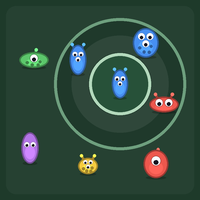
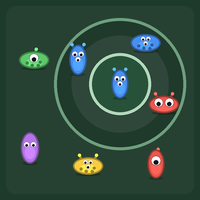
wip aliens

diff --git a/aliens/docs/make_thumbnail.py b/aliens/docs/make_thumbnail.py
@@ -25,15 +25,12 @@ ell(CX, CY, R_IN, R_IN, outline=(217, 255, 224, 200), width=3*SS)        # INNER
 
 COLORS = [(71,143,242), (237,87,77), (92,199,107), (247,204,64), (179,117,230)]
 
-def alien(cx, cy, r, cid, eyes, tall, wide, ants, spots):
+def alien(cx, cy, r, cid, eyes, wide, ants, spots):
     col = COLORS[cid]
     dark = tuple(int(c*0.66) for c in col)
     lite = tuple(min(255, int(c*1.35)) for c in col)
-    # body_extents() from alien.gd — TALL is always taller than wide
-    if tall:
-        rx, ry = r*(0.86 if wide else 0.56), r*(0.98 if wide else 1.00)
-    else:
-        rx, ry = r*(0.98 if wide else 0.66), r*(0.52 if wide else 0.54)
+    # body_extents() from alien.gd — ONE shape dimension, read as an aspect ratio
+    rx, ry = (r*1.00, r*0.58) if wide else (r*0.58, r*1.00)
     ell(cx, cy + ry*0.98, rx*0.82, r*0.11, fill=(0,0,0,56))              # ground shadow
     if ants:                                                              # antennae
         xs = [0.0] if ants == 1 else [-rx*0.42, rx*0.42]
@@ -60,17 +57,17 @@ def alien(cx, cy, r, cid, eyes, tall, wide, ants, spots):
 
 # parked on the lane (matching), one promoted inside, and a few roaming below
 LANE = (R_OUT + R_IN) / 2
-for ang, cid, eyes, tall, wide, ants, spots in [
-        (-150, 0, 3, True,  False, 2, False),
-        (-58,  0, 3, True,  True,  0, True),
-        (25,   1, 2, False, True,  2, False)]:
+for ang, cid, eyes, wide, ants, spots in [
+        (-150, 0, 3, False, 2, False),
+        (-58,  0, 3, True,  0, True),
+        (25,   1, 2, True,  2, False)]:
     a = math.radians(ang)
-    alien(CX + math.cos(a)*LANE, CY + math.sin(a)*LANE, W*0.075, cid, eyes, tall, wide, ants, spots)
-alien(CX, CY, W*0.072, 0, 3, True, False, 2, False)                       # promoted, inner ring
-alien(W*0.17, W*0.30, W*0.075, 2, 1, False, True, 1, True)
-alien(W*0.15, W*0.74, W*0.078, 4, 2, True, False, 0, False)
-alien(W*0.44, W*0.83, W*0.075, 3, 3, False, False, 2, True)
-alien(W*0.78, W*0.82, W*0.072, 1, 1, True, True, 1, False)
+    alien(CX + math.cos(a)*LANE, CY + math.sin(a)*LANE, W*0.075, cid, eyes, wide, ants, spots)
+alien(CX, CY, W*0.072, 0, 3, False, 2, False)                             # promoted, inner ring
+alien(W*0.17, W*0.30, W*0.075, 2, 1, True,  1, True)
+alien(W*0.15, W*0.74, W*0.078, 4, 2, False, 0, False)
+alien(W*0.44, W*0.83, W*0.075, 3, 3, True,  2, True)
+alien(W*0.78, W*0.82, W*0.072, 1, 1, False, 1, False)
 
 img.resize((S, S), Image.LANCZOS).save("aliens/art/game_screen_200.png")
 print("wrote aliens/art/game_screen_200.png")

diff --git a/aliens/docs/design.md b/aliens/docs/design.md
@@ -43,14 +43,13 @@ Aliens are **drawn**, not images — no per-game art beyond the chooser thumbnai
 
 ## Trait model
 
-Six **independent** dimensions, heaviest visual weight first. Independence is the entire
+Five **independent** dimensions, heaviest visual weight first. Independence is the entire
 confusion mechanism — traits must never be correlated.
 
 | dim | field | values |
 |---|---|---|
 | body color | `color_id` | 0 blue, 1 red, 2 green, 3 yellow, 4 purple |
-| height | `is_tall` | TALL = **taller than it is wide**, SHORT = **wider than it is tall** |
-| girth | `is_fat` | WIDE / NARROW (body ellipse `rx`) |
+| body shape | `is_fat` | WIDE (1.00 × 0.58) / NARROW (0.58 × 1.00) — a single aspect axis |
 | eyes | `eyes` | 1 / 2 / 3 |
 | antennae | `antennae` | 0 / 1 / 2 |
 | spots | `has_spots` | bool (lower body only) |
@@ -59,17 +58,31 @@ Mouth is deliberately **not** a trait — every alien wears the same smile (cute
 information). It would be the weakest discriminator at phone size and it competes with the eyes
 for face area.
 
-**TALL is defined so both readings agree.** A tall alien is taller than it is wide at *either*
-girth, and a short one is wider than it is tall. Previously "tall" meant only greater absolute
-height, so a tall+wide alien came out `(0.92 w, 0.86 h)` — visibly wider than tall while labelled
-TALL, judgeable only by comparing it against other aliens. Girth stays independent: height sets
-`ry`, girth sets `rx`. Nothing exceeds `radius`, so the body always fits the collision circle.
+**There is no tall/short rule — on purpose.** Height and girth describe the same ellipse, so
+offering both always left one of the four combinations an unjudgeable near-square: a "tall + wide"
+alien is just a big blob. Two attempts to tune it failed in opposite ways — first "tall" meant only
+greater *absolute* height (so a tall+wide alien came out visibly **wider** than tall), then it meant
+taller-than-wide by a mere 14%, which reads as a circle. The fix was to drop the dimension, not to
+keep tuning it.
+
+Body shape is now **one axis, read as an aspect ratio**, and `thin` already carries the
+taller-than-wide meaning:
+
+| | extents | height/width |
+|---|---|---|
+| **WIDE** (`fat`) | 1.00 × 0.58 | 0.58 — clearly wider than tall |
+| **NARROW** (`thin`) | 0.58 × 1.00 | 1.72 — clearly taller than wide |
+
+Exact mirrors, ~3× apart in aspect, so every alien reads as one or the other. The probe asserts the
+**separation** (wide ≤ 0.75, narrow ≥ 1.33, ≥ 2× apart) and that no rule named `tall`/`short`
+survives — a bare `ry > rx` test would have passed the unreadable version. That leaves five trait
+dimensions and 15 rules, which is plenty.
 
 **Eyes are drawn as three distinct SHAPES, not three counts**: 1 = one big central eye,
 2 = a horizontal pair, 3 = a triangle. Recognizing a shape is instant; counting pips is not. The
 triangle also fits a narrow body, where a row of three would have to shrink to nothing.
 
-17 rule keys, all evaluated by one `_alien_matches(al, rule_key)` match statement. See the
+15 rule keys, all evaluated by one `_alien_matches(al, rule_key)` match statement. See the
 comment block at the top of `level_config.gd` for the authoritative list with labels.
 
 ## Rules
@@ -79,8 +92,7 @@ comment block at the top of `level_config.gd` for the authoritative list with la
   harmless — it belongs wherever it went.
 - **Usability filter** (`_is_rule_usable`): a rule is only offered if the level's trait pools can
   produce both matches and non-matches. Pools may safely over-list; unusable keys are dropped.
-- **`COMPLEMENTS`**: two areas never get an exact complement pair (`tall/short`, `fat/thin`,
-  `spots/nospots`) — that would collapse two independent judgments into one binary. Two
+- **`COMPLEMENTS`**: two areas never get an exact complement pair (`fat/thin`, `spots/nospots`) — that would collapse two independent judgments into one binary. Two
   *different values of the same dimension* (BLUE vs RED, 2 EYES vs 3 EYES) are fine and good.
 - **Arrival mix ~50/50**, kept there by two light mechanisms rather than a scheduler:
   `_choose_area_for` sends an alien to an area it actually fits about half the time
@@ -131,6 +143,17 @@ DRAGGED / SNAPPING / FADING`.
   ring (`LOITER_BIAS`, `LOITER_BAND`), so the crowd reads as "queueing up" rather than drifting
   at random. This concentrates the population near the areas, which is why the solver needs more
   passes than a uniformly spread field would.
+- **Eagerness follows ROOM** (`EAGER_ENTER`). `enter_chance` alone is rolled once per retarget
+  (~1.5 s), so at level 1 (0.16) an alien beside a completely EMPTY ring still committed only
+  about 1 retarget in 6 — it circled the door for a measured median of **6.5 s** (worst 25 s)
+  while visibly wanting in, which reads as broken. The chance is now lerped toward `EAGER_ENTER`
+  by how free the target ring is (and further if the alien is already beside it), which cut the
+  median to 3.5 s and the worst to 11 s. A **full** ring deliberately attracts no rush — there is
+  nothing to rush for.
+- Two silent blockers made it worse and are now handled: the arrival-mix veto only applies once
+  somebody is already parked (it could otherwise hold everyone out of an empty ring), and an
+  alien serving its `RE_ENTRY_COOLDOWN_MS` no longer picks loitering targets at all — hovering at
+  a door it is barred from using is exactly the look being complained about.
 - Wander targets are rejection-sampled outside every disk, so an alien never *steers* into a ring.
 - **Aliens never walk over an INNER ring.** `_push_out_of_areas` keeps everyone out of the whole
   disc except in their own area, where they are still kept out of the inner disc (`INNER_PAD`).
